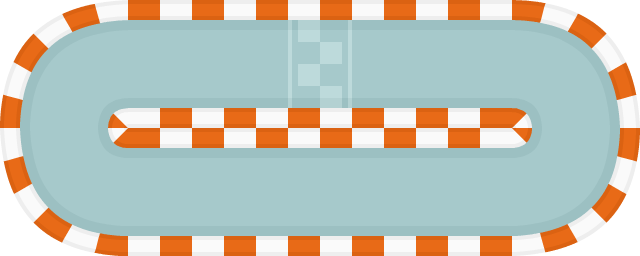
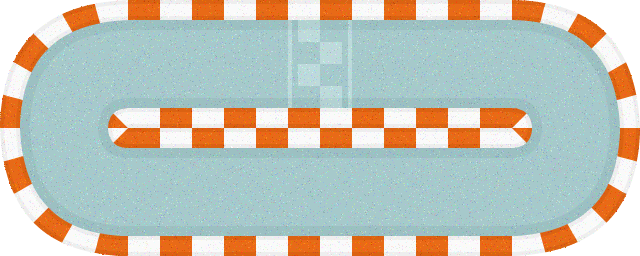
added stuff

diff --git a/objects/Car.js b/objects/Car.js
@@ -1,11 +1,11 @@
 import { angleDifference } from "../Utils.js";
 import { Particle } from "../effects/Particle.js";
 import { TyreMark } from "../effects/TyreMark.js"
+import { BASE_DRIFT_THRESHOLD } from "../constants.js";
 
 export class Car {
   constructor(x, y, carImg, particles, tyreMarks, scale, p) {
     this.p = p;
-    this.scale = scale;
     this.particles = particles;
     this.tyreMarks = tyreMarks;
 
@@ -13,13 +13,18 @@ export class Car {
     this.vel = this.p.createVector(0, 0);
     this.angle = 0;
 
-    this.acceleration = 0.25*scale; // 0.025
-    this.maxSpeed = 5*scale; // 1.5
-    this.grip = 0.05*scale; // 0.025
-    this.turnSpeed = 0.075*scale; // 0.025
+    this.baseAcceleration = 0.1; // 0.025
+    this.baseMaxSpeed = 5; // 1.5
+    this.grip = this.baseGrip = 0.05; // 0.025
+    this.baseTurnSpeed = this.turnSpeed = 0.05; // 0.025
     
-    this.wheelBase = 20*scale;
-    this.trackWidth = 14*scale;
+    this.baseWheelBase = 20;
+    this.baseTrackWidth = 10;
+
+    this.acceleration = this.baseAcceleration * scale;
+    this.maxSpeed = this.baseMaxSpeed * scale;
+    this.wheelBase = this.baseWheelBase * scale;
+    this.trackWidth = this.baseTrackWidth * scale;
     
     this.carImg = carImg;
     
@@ -35,7 +40,14 @@ export class Car {
     this.durability = this.durabilityCap;
   }
 
-  update() {
+  onResize(scale) {
+    this.acceleration = this.baseAcceleration * scale;
+    this.maxSpeed = this.baseMaxSpeed * scale;
+    this.wheelBase = this.baseWheelBase * scale;
+    this.trackWidth = this.baseTrackWidth * scale;
+  }
+
+  update(pixelSize) {
     let target = this.p.createVector(this.p.mouseX, this.p.mouseY);
     let desired = target.copy().sub(this.pos);
     let desiredAngle = desired.heading();
@@ -60,8 +72,8 @@ export class Car {
     this.vel = forwardVel.copy().add(sidewaysVel);
 
     let driftAmount = sidewaysVel.mag();
-
-    if (driftAmount > 0.9) {
+    this.vel.mult(1 - driftAmount * this.grip);
+    if (driftAmount > ((BASE_DRIFT_THRESHOLD/pixelSize)*2)) {
       this.spawnEffects(driftAmount);
     }
 

diff --git a/sketch.js b/sketch.js
@@ -12,8 +12,7 @@ const sketch = (p) => {
   let carImg;
   let trackImg;
   let track;
-  let pg;
-  let pixelSize = 3;
+  let pixelSize = 5;
   let scale = 1;
 
   p.preload = () => {
@@ -22,43 +21,38 @@ const sketch = (p) => {
   }
 
   p.setup = () => {
-    p.createCanvas(p.windowWidth, p.windowHeight);
-    pg = p.createGraphics(p.windowWidth, p.windowHeight);
-    scale = Math.min(p.windowWidth / BASE_WIDTH, p.windowHeight / BASE_HEIGHT);
+    p.createCanvas(p.windowWidth/pixelSize, p.windowHeight/pixelSize);
+    scale = Math.min(p.windowWidth / BASE_WIDTH, p.windowHeight / BASE_HEIGHT) / pixelSize;
     car = new Car(p.width / 2, p.height / 2, carImg, particles, tyreMarks, scale, p);
     track = new Track(trackImg);
   }
 
   p.windowResized = () => {
-    p.resizeCanvas(p.windowWidth, p.windowHeight);
-    pg = p.createGraphics(p.windowWidth, p.windowHeight);
-    scale = Math.min(p.windowWidth / BASE_WIDTH, p.windowHeight / BASE_HEIGHT);
+    p.resizeCanvas(p.windowWidth/pixelSize, p.windowHeight/pixelSize);
+    scale = Math.min(p.windowWidth/BASE_WIDTH, p.windowHeight/BASE_HEIGHT) / pixelSize;
+    car.onResize(scale);
   }
 
   p.draw = () => {
-    pg.background(240);
-    track.show(pg, scale);
+    p.background(240);
+    track.show(p, scale);
 
     for (let i = tyreMarks.length - 1; i >= 0; i--) {
-      tyreMarks[i].show(pg, scale);
+      tyreMarks[i].show(p, scale, pixelSize);
+      if (tyreMarks[i].life <= 0) {
+        tyreMarks.splice(i, 1);
+      }
     }
-    car.update();
-    car.show(pg, scale);
+    car.update(pixelSize);
+    car.show(p, scale);
 
     for (let i = particles.length - 1; i >= 0; i--) {
       particles[i].update();
-      particles[i].show(pg, scale);
+      particles[i].show(p, scale);
       if (particles[i].life <= 0) {
         particles.splice(i, 1);
       }
     }
-
-    let w = p.width / pixelSize;
-    let h = p.height / pixelSize;
-    let small = pg.get();
-    small.resize(w, h);
-    p.drawingContext.imageSmoothingEnabled = false;
-    p.image(small, 0, 0, p.width, p.height);
   }
 }
 

diff --git a/effects/Particle.js b/effects/Particle.js
@@ -4,7 +4,7 @@ export class Particle {
     this.pos = this.p.createVector(x, y);
     this.vel = this.p.createVector(this.p.random(-1, 1), this.p.random(-1, 1));
     this.vel.normalize();
-    this.vel.mult(this.p.random(0.5, 1.5));
+    this.vel.mult(this.p.random(0.1, 0.2));
     this.life = 100;
     this.size = this.p.random(5, 10);
   }
@@ -17,7 +17,7 @@ export class Particle {
   
   show(pg, scale) {
     pg.noStroke();
-    pg.fill(80, this.life);
+    pg.fill(50, this.life);
     pg.ellipse(this.pos.x, this.pos.y, this.size*scale);
   }
 }

diff --git a/effects/TyreMark.js b/effects/TyreMark.js
@@ -6,9 +6,9 @@ export class TyreMark {
     this.intensity = intensity;
   }
   
-  show(pg, scale) {
+  show(pg, scale, pixelSize) {
     pg.stroke(0, this.life);
-    pg.strokeWeight(this.intensity * 2 * scale);
+    pg.strokeWeight(this.intensity * 2 * scale * pixelSize);
     pg.point(this.pos.x, this.pos.y);
     this.life -= 2;
   }

diff --git a/style.css b/style.css
@@ -1,7 +1,11 @@
 html, body {
   margin: 0;
   padding: 0;
+  overflow: hidden;
 }
 canvas {
   display: block;
+  image-rendering: pixelated;
+  width: 100vw !important;
+  height: 100vh !important;
 }

diff --git a/objects/Track.js b/objects/Track.js
@@ -1,7 +1,7 @@
 export class Track {
   constructor(trackImg) {
     this.trackImg = trackImg;
-    this.localScaleFactor = 1;
+    this.localScaleFactor = 1.1;
   }
   
   show(pg, scale) {

diff --git a/constants.js b/constants.js
@@ -1,2 +1,3 @@
 export const BASE_WIDTH = 750;
 export const BASE_HEIGHT = 750;
+export const BASE_DRIFT_THRESHOLD = 0.67;
